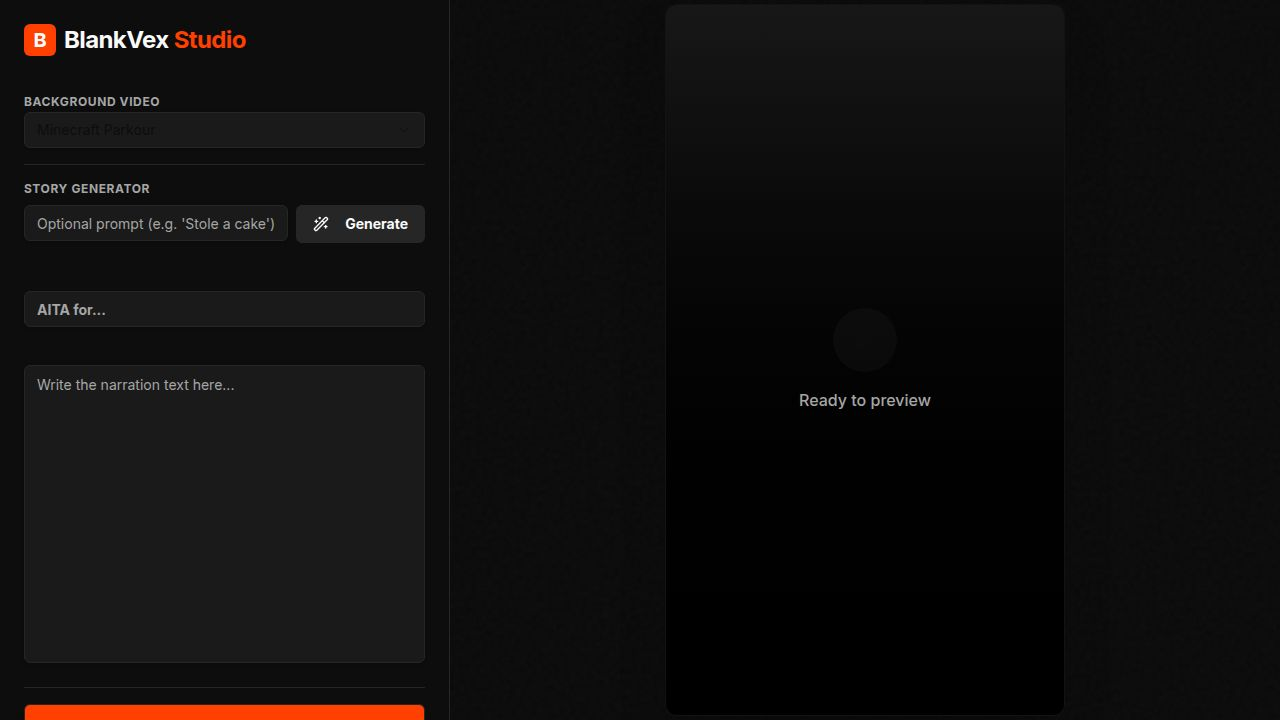
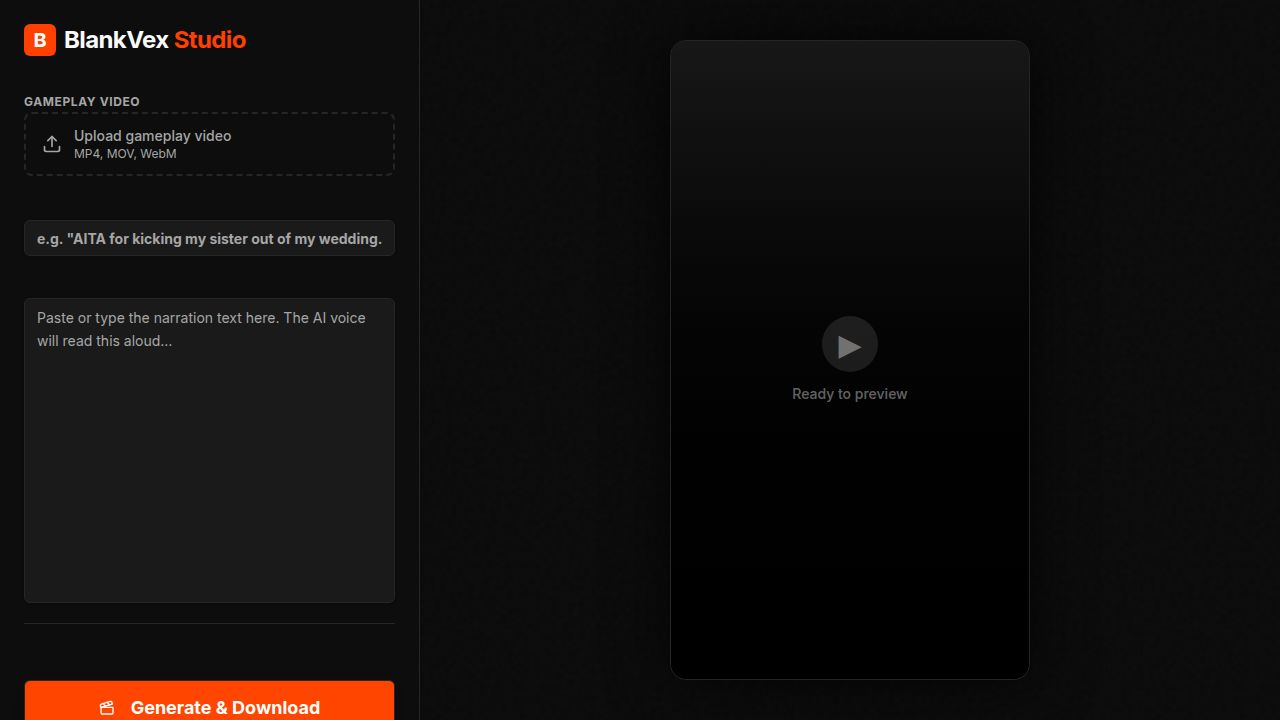
Replace StreamElements TTS with Google Translate and SoundOfText for audio generation
Switch TTS backend from StreamElements (returning 401 errors) to Google Translate TTS as primary and SoundOfText as a fallback. Adjust text chunking for shorter character limits.

Replit-Commit-Author: Agent
Replit-Commit-Session-Id: 13bfe0db-3243-46db-ae8b-b0046e1abe25
Replit-Commit-Checkpoint-Type: full_checkpoint
Replit-Commit-Event-Id: 5c58c87e-4026-40c3-bec3-91097e58db38
Replit-Commit-Screenshot-Url: https://storage.googleapis.com/screenshot-production-us-central1/626c0344-1653-4818-b8cd-5eefec613243/13bfe0db-3243-46db-ae8b-b0046e1abe25/EFhYzHg
Replit-Helium-Checkpoint-Created: true

diff --git a/artifacts/api-server/src/routes/tts.ts b/artifacts/api-server/src/routes/tts.ts
@@ -1,16 +1,12 @@
 import { Router } from "express";
 
 const router = Router();
+const CHUNK_MAX = 150;
 
-const VOICE = "Brian";
-const CHUNK_MAX = 250;
-
-function splitTextIntoChunks(text: string): string[] {
-  // Split at sentence boundaries first, then by word if needed
+function splitChunks(text: string): string[] {
   const sentences = text.split(/(?<=[.!?,;])\s+/);
   const chunks: string[] = [];
   let current = "";
-
   for (const sentence of sentences) {
     const candidate = current ? current + " " + sentence : sentence;
     if (candidate.length <= CHUNK_MAX) {
@@ -20,17 +16,12 @@ function splitTextIntoChunks(text: string): string[] {
       if (sentence.length <= CHUNK_MAX) {
         current = sentence;
       } else {
-        // Split long sentence by words
         const words = sentence.split(" ");
         current = "";
         for (const word of words) {
           const c = current ? current + " " + word : word;
-          if (c.length <= CHUNK_MAX) {
-            current = c;
-          } else {
-            if (current) chunks.push(current.trim());
-            current = word;
-          }
+          if (c.length <= CHUNK_MAX) { current = c; }
+          else { if (current) chunks.push(current.trim()); current = word; }
         }
       }
     }
@@ -39,13 +30,56 @@ function splitTextIntoChunks(text: string): string[] {
   return chunks.filter((c) => c.length > 0);
 }
 
-async function fetchChunk(text: string): Promise<ArrayBuffer> {
-  const url = `https://api.streamelements.com/kappa/v2/speech?voice=${VOICE}&text=${encodeURIComponent(text)}`;
+async function googleTTS(text: string): Promise<ArrayBuffer> {
+  const url =
+    "https://translate.google.com/translate_tts?ie=UTF-8&tl=en&client=tw-ob&q=" +
+    encodeURIComponent(text);
   const res = await fetch(url, {
-    headers: { "User-Agent": "Mozilla/5.0" },
+    headers: {
+      "User-Agent":
+        "Mozilla/5.0 (Windows NT 10.0; Win64; x64) AppleWebKit/537.36 (KHTML, like Gecko) Chrome/124.0.0.0 Safari/537.36",
+      Referer: "https://translate.google.com/",
+      Accept: "audio/mpeg,audio/*;q=0.9,*/*;q=0.8",
+    },
+    signal: AbortSignal.timeout(10000),
   });
-  if (!res.ok) throw new Error(`StreamElements ${res.status}`);
-  return res.arrayBuffer();
+  if (!res.ok) throw new Error(`Google TTS ${res.status}`);
+  const buf = await res.arrayBuffer();
+  if (buf.byteLength < 200) throw new Error("Empty audio response");
+  return buf;
+}
+
+async function soundOfText(text: string): Promise<ArrayBuffer> {
+  const postRes = await fetch("https://api.soundoftext.com/sounds", {
+    method: "POST",
+    headers: { "Content-Type": "application/json" },
+    body: JSON.stringify({ engine: "Google", data: { text, voice: "en-US" } }),
+    signal: AbortSignal.timeout(10000),
+  });
+  if (!postRes.ok) throw new Error(`SoundOfText post ${postRes.status}`);
+  const { id } = (await postRes.json()) as { id: string };
+
+  for (let i = 0; i < 30; i++) {
+    await new Promise((r) => setTimeout(r, 1000));
+    const poll = await fetch(`https://api.soundoftext.com/sounds/${id}`, {
+      signal: AbortSignal.timeout(5000),
+    });
+    const data = (await poll.json()) as { status: string; location?: string };
+    if (data.status === "Done" && data.location) {
+      const audio = await fetch(data.location, { signal: AbortSignal.timeout(10000) });
+      return audio.arrayBuffer();
+    }
+    if (data.status === "Error") throw new Error("SoundOfText error");
+  }
+  throw new Error("SoundOfText timeout");
+}
+
+async function fetchChunk(text: string): Promise<ArrayBuffer> {
+  try {
+    return await googleTTS(text);
+  } catch (e) {
+    return await soundOfText(text);
+  }
 }
 
 router.post("/tts", async (req, res) => {
@@ -55,21 +89,29 @@ router.post("/tts", async (req, res) => {
   }
 
   try {
-    const chunks = splitTextIntoChunks(text);
-    req.log.info({ chunks: chunks.length }, "TTS: fetching chunks");
+    const chunks = splitChunks(text);
+    req.log.info({ chunks: chunks.length }, "TTS: generating");
 
-    // Fetch all chunks sequentially to avoid rate limiting
-    const buffers: ArrayBuffer[] = [];
-    for (const chunk of chunks) {
-      const buf = await fetchChunk(chunk);
-      buffers.push(buf);
+    // Fetch all chunks in parallel (max 3 concurrent)
+    const results: ArrayBuffer[] = new Array(chunks.length);
+    const queue = chunks.map((chunk, i) => ({ chunk, i }));
+    const inFlight = new Set<Promise<void>>();
+
+    const run = async ({ chunk, i }: { chunk: string; i: number }) => {
+      results[i] = await fetchChunk(chunk);
+    };
+
+    for (const item of queue) {
+      const p = run(item).finally(() => inFlight.delete(p as Promise<void>));
+      inFlight.add(p as Promise<void>);
+      if (inFlight.size >= 3) await Promise.race(inFlight);
     }
+    await Promise.all(inFlight);
 
-    // Concatenate MP3 buffers directly — valid for same-codec streams
-    const total = buffers.reduce((s, b) => s + b.byteLength, 0);
+    const total = results.reduce((s, b) => s + b.byteLength, 0);
     const combined = Buffer.allocUnsafe(total);
     let offset = 0;
-    for (const buf of buffers) {
+    for (const buf of results) {
       combined.set(new Uint8Array(buf), offset);
       offset += buf.byteLength;
     }
@@ -79,8 +121,7 @@ router.post("/tts", async (req, res) => {
     return res.send(combined);
   } catch (err: unknown) {
     req.log.error({ err }, "TTS failed");
-    const msg = err instanceof Error ? err.message : "TTS failed";
-    return res.status(500).json({ error: msg });
+    return res.status(500).json({ error: err instanceof Error ? err.message : "TTS failed" });
   }
 });
 